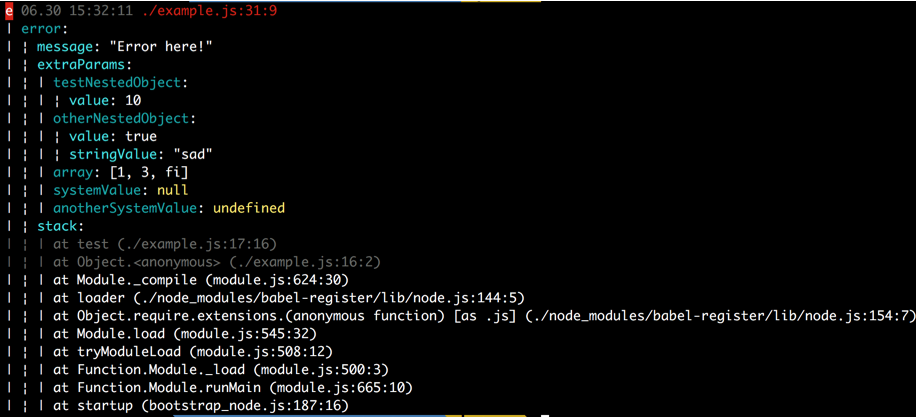
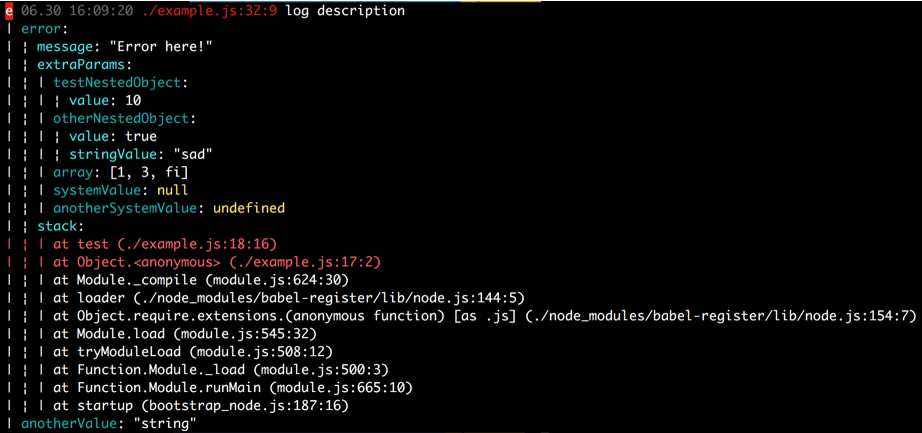
docs(README): fix main docs example

Changed region(s): [[0.0, 0.0, 1.0, 1.0]]

diff --git a/example.js b/example.js
@@ -29,8 +29,9 @@ const logger = bunyan.createLogger({
 		anotherSystemValue: undefined,
 	};
 	
-	logger.error({ error });
-	logger.warn({ error });
-	logger.info('test');
-	logger.info({ error });
+	logger.error({
+		error,
+		message     : 'log description',
+		anotherValue: 'string',
+	});
 }());
